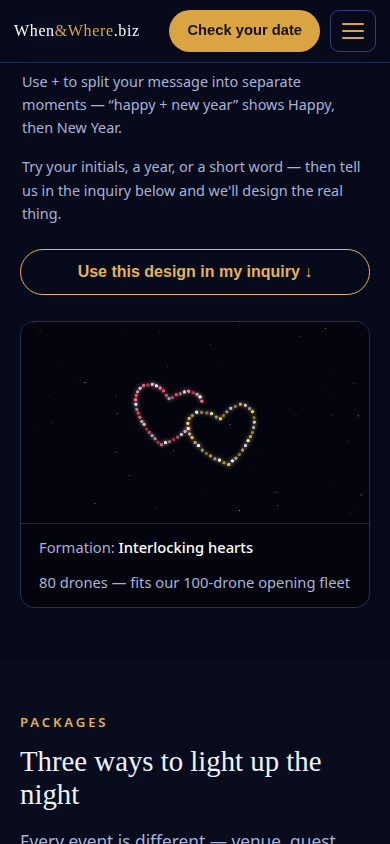
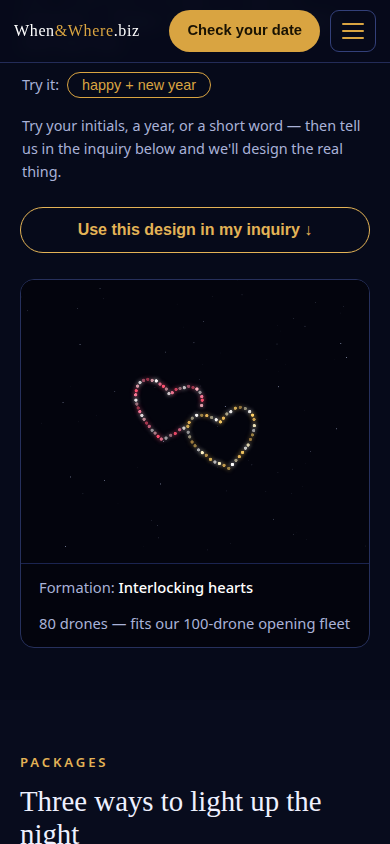
v1.5.3: studio canvas is taller — 900x520 to 900x732
The stage now fills the row against the 664px controls list
(measured 1px above and below at 1280px, down from a 179px
gap). The formations do not get bigger — hearts, rings, star,
and words are sized by fixed radii and font sizes (or by
width), so the taller canvas gives them more vertical
breathing room (the two hearts sit further apart) rather
than larger drones. The geometry adapts automatically
(W/H are read from the canvas element), so the only code
change is the canvas height attribute; the geometry test's
inCanvas bound moves 520 -> 732 (it had flagged finale
points at y=571 as outside the old bound — a test artifact,
the points were inside the real canvas), and the
Readability Lab's preview stage matches the new size.
Mobile studio shot re-captured (hearts read clearly at
390px, caption intact).

diff --git a/index.html b/index.html
@@ -1,5 +1,5 @@
 <!doctype html>
-<!-- whenwhere-drone-light-shows v1.5.2 -->
+<!-- whenwhere-drone-light-shows v1.5.3 -->
 <html lang="en">
   <head>
     <meta charset="utf-8" />
@@ -148,7 +148,7 @@
             <button type="button" class="btn line-btn" id="useDesignBtn">Use this design in my inquiry ↓</button>
           </div>
           <figure class="stage" style="margin:0">
-            <canvas id="sky" width="900" height="520" aria-label="Animated preview of drones assembling into the chosen formation"></canvas>
+            <canvas id="sky" width="900" height="732" aria-label="Animated preview of drones assembling into the chosen formation"></canvas>
             <figcaption><span>Formation: <b id="shapeName">Interlocking hearts</b></span><span id="droneCount"></span></figcaption>
           </figure>
         </div>

diff --git a/tools/readability-lab.html b/tools/readability-lab.html
@@ -118,7 +118,7 @@
 
 <section>
   <h2>Word preview</h2>
-  <canvas id="stage" width="900" height="520"></canvas>
+  <canvas id="stage" width="900" height="732"></canvas>
   <p id="wordReadout"></p>
   <p class="muted">The preview uses the page's own budget formula with the
   current dots-per-glyph setting; the floor is summed per glyph at the
@@ -263,7 +263,7 @@
   function renderWord() {
     var word = (state.word || 'LOVE').toUpperCase();
     var pts = geo.wordPoints(word);
-    stageCtx.fillStyle = '#080c1d'; stageCtx.fillRect(0, 0, 900, 520);
+    stageCtx.fillStyle = '#080c1d'; stageCtx.fillRect(0, 0, 900, 732);
     drawDots(stageCtx, pts, 0, 0);
     var size = fittedSize(word), floor = 0;
     for (var i = 0; i < word.length; i++) {

diff --git a/studio.js b/studio.js
@@ -511,7 +511,7 @@
           return pts;
         }
         // One character at a time, each rastered on a tight canvas just big
-        // enough for the glyph (not the full 900x520 stage): wordPoints runs
+        // enough for the glyph (not the full 900x732 stage): wordPoints runs
         // on every keystroke, and a full-stage canvas per character was ~2MB
         // of allocation per keystroke for a 4-letter word. The glyph is drawn
         // centered, so points translate back by the same offset.

diff --git a/CHANGELOG.md b/CHANGELOG.md
@@ -4,6 +4,24 @@ All notable changes to the WhenWhere drone light shows page, one line
 per shipped change. To release a new version, bump the version comment
 at the top of `index.html` and add a section below.
 
+## v1.5.3 — 2026-11-26
+
+- 2026-11-26 — The studio canvas is taller: 900×520 → 900×732, so
+  the stage fills the row against the 664px controls list (measured
+  1px above and below at 1280px, down from a 179px gap). The
+  formations do not get bigger — hearts, rings, star, and words are
+  sized by fixed radii and font sizes (or by width), so the taller
+  canvas gives them more vertical breathing room (the two hearts sit
+  further apart) rather than larger drones. The geometry adapts
+  automatically (`W`/`H` are read from the canvas element), so the
+  only code change is the canvas height attribute; the geometry
+  test's `inCanvas` bound moves 520 → 732 (it had flagged finale
+  points at y=571 as outside the old bound — a test artifact, the
+  points were inside the real canvas), and the Readability Lab's
+  preview stage matches the new size. Verified: geometry 52/52,
+  full smoke suite over HTTP, no JS errors; mobile studio shot
+  re-captured.
+
 ## Studio stage centered — 2026-11-26 (no version bump)
 
 - 2026-11-26 — The controls list (six shape buttons, word box +
